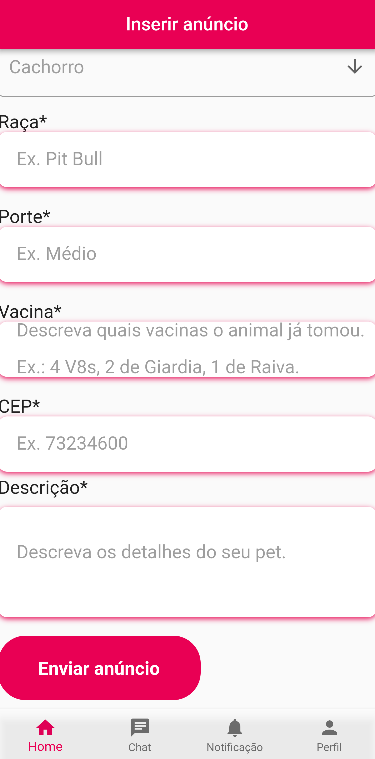
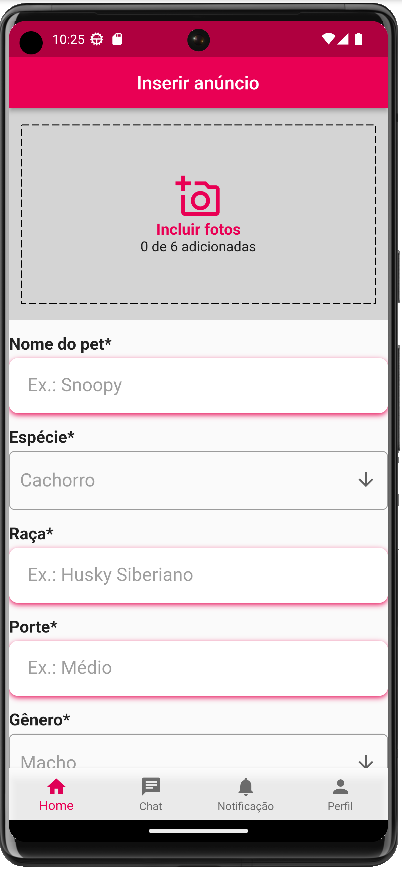
prints do aplicativo atualizados no DAS

diff --git a/docs/arquitetura_reutilização/documento_de_arquitetura.md b/docs/arquitetura_reutilização/documento_de_arquitetura.md
@@ -134,3 +134,8 @@ Em resumo, a visão geral do aplicativo IdotPet é baseada na arquitetura MVC co
 #### Cadastro de anúncio do pet
 
 ![Tela Cadastro Pet](../assets/tela_castro_pet.PNG)
+
+
+#### Cadastro de anúncio do pet - parte 2
+
+![Tela Cadastro Pet 2](../assets/tela_castro_pet_2.PNG)
